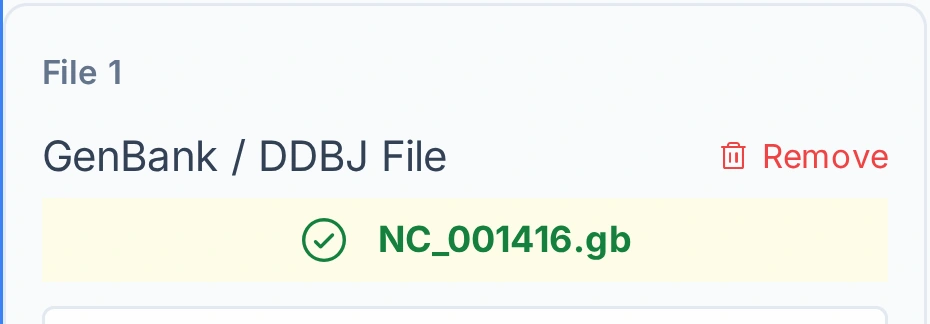
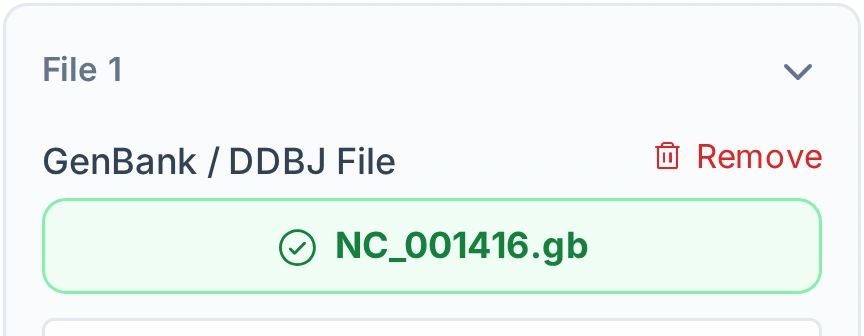
Retake the lambda and Vnig upload crops of the Gallery tutorials
The capture tool lets running CSS transitions end before it measures and
takes a crop. The caret of a File card turns over 200 ms after the card
opens, and the lambda upload crop, taken right after the tool opened the
loaded Session's folded card, showed the caret mid-turn (OV-627).

The Vnig upload operation gets capture metadata, so the tool can retake
it: the exact Session, a clip from the Input Genomes card header to the
GenBank/DDBJ File uploader, and the file name in assertAppState and
visibleText. The retaken crop shows the long name cut at its end with an
ellipsis (OV-628, after OV-600).

diff --git a/tests/test_gallery_capture_contracts.py b/tests/test_gallery_capture_contracts.py
@@ -2,10 +2,12 @@ from __future__ import annotations
 
 import base64
 import gzip
+import io
 import json
 from pathlib import Path
 
 import pytest
+from PIL import Image
 
 import tools.capture_gallery_tutorial_screenshots as capture_tool
 from tools.capture_gallery_tutorial_screenshots import (
@@ -514,6 +516,27 @@ def test_basic_gallery_capture_session_contains_the_named_record(
     assert expected["resource_marker"] in decoded
 
 
+def test_vnig_upload_capture_names_the_session_file_it_shows() -> None:
+    """The tool retakes the upload crop only from capture metadata (OV-628)."""
+
+    filename = "GCF_015097735.1_ASM1509773v1_genomic.gbff"
+    sample = load_ready_examples("Vnig_TUMSAT-TG-2018")[0]
+    operations = [
+        operation
+        for _, operation in iter_operation_contexts(sample, _load_tutorial(sample))
+        if operation.get("media", {}).get("src", "").endswith("/manual-02-01-gbff-upload.webp")
+    ]
+
+    assert len(operations) == 1
+    operation = operations[0]
+    assert operation.get("dataDependent") is True
+    capture = operation.get("capture", {})
+    assert capture.get("source") == "webapp"
+    assert capture.get("session") == sample["session"]
+    assert capture.get("assertAppState") == {"mode": "circular", "files.c_gb.name": filename}
+    assert capture.get("visibleText") == [filename]
+
+
 def test_ready_gallery_media_passes_capture_contract_validation() -> None:
     result = validate_tutorial_media(
         load_ready_examples(),
@@ -649,3 +672,34 @@ def test_replay_resets_then_performs_steps_through_the_named_one(
         {"type": "fill", "value": "one"},
         {"type": "generate"},
     ]
+
+
+def test_capture_lets_css_transitions_end_before_the_crop(
+    tmp_path: Path, monkeypatch: pytest.MonkeyPatch
+) -> None:
+    """A caret turns over 200 ms after its card opens; a crop taken sooner shows it mid-turn (OV-627)."""
+
+    events: list[str] = []
+
+    class FakePage:
+        def evaluate(self, script: str, *args: object) -> None:
+            events.append(script)
+
+        def screenshot(self, **kwargs: object) -> bytes:
+            events.append("screenshot")
+            buffer = io.BytesIO()
+            Image.new("RGB", (2, 2)).save(buffer, "PNG")
+            return buffer.getvalue()
+
+    monkeypatch.setattr(capture_tool, "prepare_capture_page", lambda *args: None)
+    monkeypatch.setattr(capture_tool, "output_path_for_operation", lambda operation: tmp_path / "crop.webp")
+    operation = {"capture": {"boundingBox": {"x": 0, "y": 0, "width": 2, "height": 2}}}
+
+    capture_tool.capture_operation(FakePage(), {}, operation, "http://127.0.0.1", 90)
+
+    waits = [
+        index
+        for index, script in enumerate(events)
+        if "CSSTransition" in script and ".finished" in script
+    ]
+    assert waits and waits[-1] < events.index("screenshot")

diff --git a/tools/capture_gallery_tutorial_screenshots.py b/tools/capture_gallery_tutorial_screenshots.py
@@ -1314,6 +1314,23 @@ def prepare_capture_page(page, base_url: str, sample: dict[str, Any], capture: d
         page.wait_for_timeout(100)
 
 
+def wait_for_css_transitions(page) -> None:
+    """Let running CSS transitions end, so a crop never shows a control mid-change.
+
+    The caret of a card or section turns over 200 ms after it opens.
+    """
+
+    page.evaluate(
+        """
+        () => Promise.all(
+          document.getAnimations()
+            .filter((animation) => animation instanceof CSSTransition)
+            .map((animation) => animation.finished.catch(() => undefined)),
+        )
+        """
+    )
+
+
 def capture_operation(page, sample: dict[str, Any], operation: dict[str, Any], base_url: str, quality: int) -> Path:
     capture = operation.get("capture")
     if not isinstance(capture, dict):
@@ -1341,6 +1358,7 @@ def capture_operation(page, sample: dict[str, Any], operation: dict[str, Any], b
         """
     )
     apply_open_select_overlays(page, capture.get("openSelect"))
+    wait_for_css_transitions(page)
 
     clip_selectors = [as_text(selector) for selector in as_array(capture.get("clipSelectors")) if as_text(selector)]
 

diff --git a/docs/internal/WEB_GALLERY_OPERATION_SCREENSHOT_REGISTER.md b/docs/internal/WEB_GALLERY_OPERATION_SCREENSHOT_REGISTER.md
@@ -440,3 +440,21 @@ the same media in the rows of the earlier sections; those rows stay as history.
 | `majanivirus_orthogroup` | `manual-02-01-upload-row-label-context.webp` | Recapture; recipe changed | The capture finds the field by `[data-linear-record-names="record-1"]`; MjeNMV.gb File card with its Organism / strain value on the card; **Record options** closed | Recaptured, 1782x1002; compared by eye |
 | `lambda_basic_linear` | `manual-02-01-genbank-upload.webp` | Keep | The clip is the card header and the uploader; the names area is outside it | Recaptured and reverted |
 | `BGC0000708-BGC0000713` | `manual-04-01-preview-defaults.webp`, `manual-10-04-preview-final.webp` | Keep | The replay with the names in the record fields draws the same previews (step 4 SVG byte-identical, step 10 within raster noise) | Recaptured as proof and reverted |
+
+## File card fold line and long upload names (Gallery revision 2026-10-13)
+
+Each Linear File card has a header line with a caret that folds the card, and
+the upload zone cuts a long file name at its end with an ellipsis. Two upload
+crops were held back from the first recapture of the File cards and are
+recorded here; the rows of the earlier sections for the same media stay as
+history.
+
+The capture tool now lets running CSS transitions end before it measures and
+takes a crop (`wait_for_css_transitions`). A caret turns over 200 ms after its
+card or section opens, and the Lambda upload crop, taken right after the tool
+opened the loaded Session's folded card, showed the caret mid-turn.
+
+| Tutorial | Operation media | Decision | Required capture state | Status |
+| --- | --- | --- | --- | --- |
+| `lambda_basic_linear` | `manual-02-01-genbank-upload.webp` | Recapture; recipe unchanged | Exact Lambda Session; open File 1 card from its header line, with the caret at rest, to the **GenBank / DDBJ File** uploader containing `NC_001416.gb` | Recaptured at DSF 3, 864x336 (was 930x324; the same two elements are 22 px narrower and 4 px taller in the current pane); compared side by side |
+| `Vnig_TUMSAT-TG-2018` | `manual-02-01-gbff-upload.webp` | Recapture; recipe added | Exact Vnig Session; `dataDependent`; clip from the **Input Genomes** card header to the **GenBank/DDBJ File** uploader; `assertAppState` and `visibleText` name `GCF_015097735.1_ASM1509773v1_genomic.gbff`; the zone shows the name cut at its end with an ellipsis. The rest of the card is outside the clip: the restored Session shows the record hints of the finished figure (Multi-Record Canvas on), not the state at the upload step | Recaptured at DSF 3, 942x483 (was a manual 656x542 crop); compared side by side |
